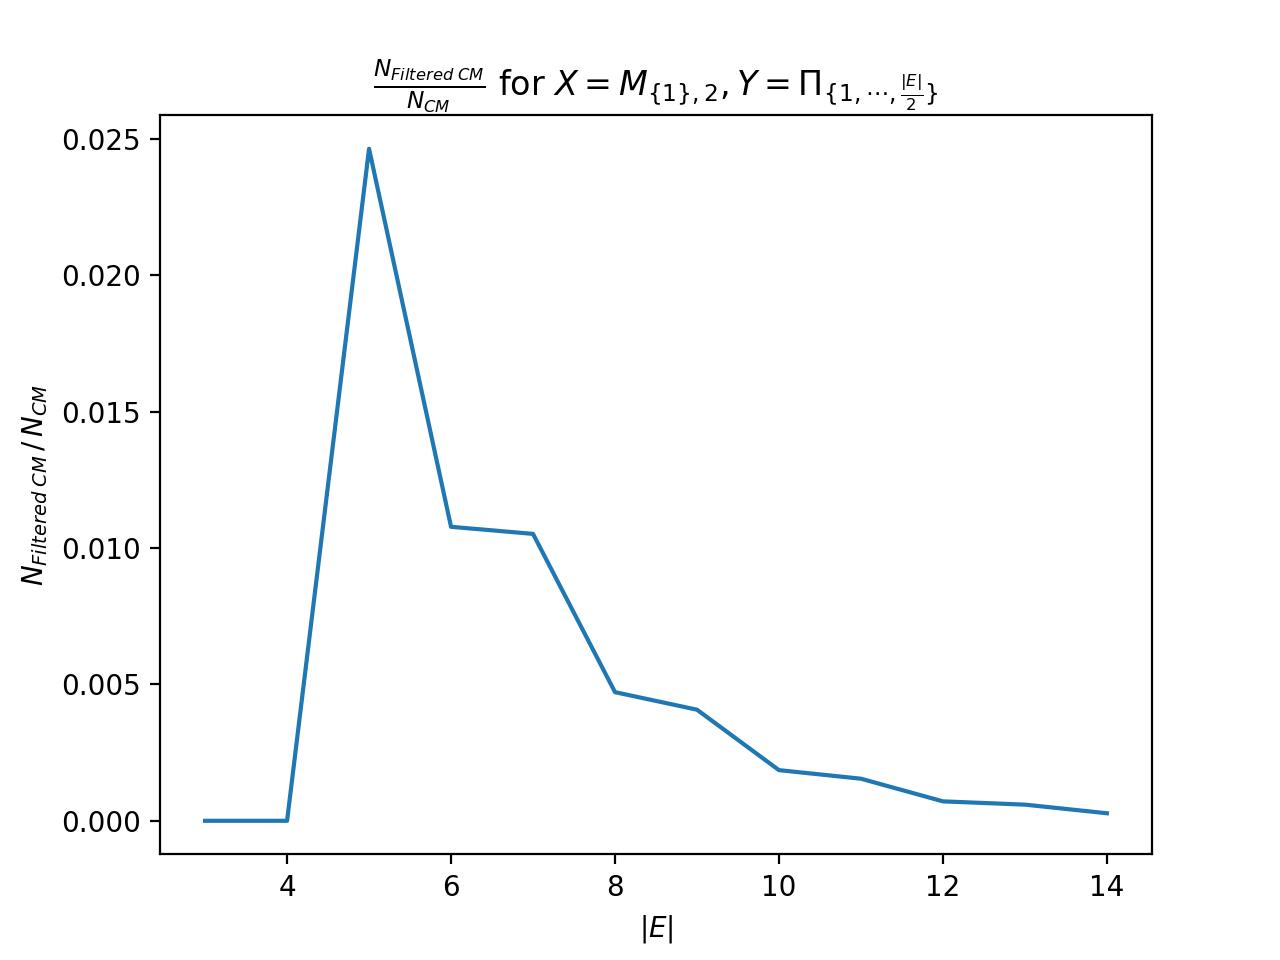
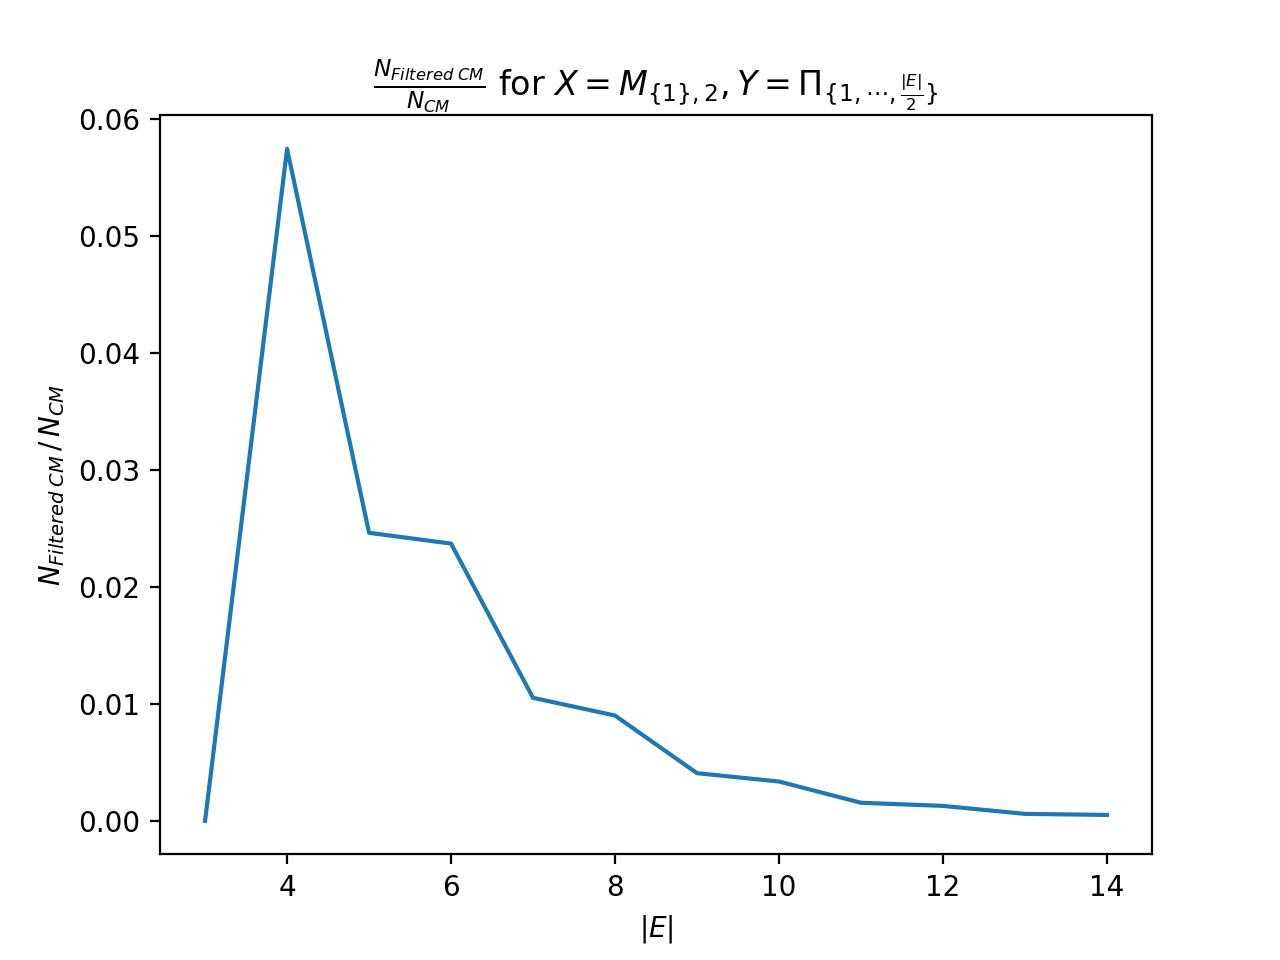
update plots

diff --git a/estrest/draft/csv2plt.py b/estrest/draft/csv2plt.py
@@ -2,25 +2,42 @@ import pandas as pd
 from matplotlib import pyplot as plt
 
 df = pd.read_csv('./data_c12_pi_all.csv')
-
 print(df)
-
 plt.plot(df.n, df.N)
 plt.title(r'$\frac{N_{Filtered\;CM}}{N_{CM}}$ for $X=C_{1,2}, Y=\Pi_{\{1, \cdots, |E|\}}$')
 plt.xlabel(r'$|E|$')
 plt.ylabel(r'$N_{Filtered\;CM}\,/\,N_{CM}$')
 # plt.show()
 plt.savefig('plt_c12_pi_all.jpg', dpi=200)
-
 plt.close()
 
+
 df = pd.read_csv('./data_c12_pi_half.csv')
-
 print(df)
-
 plt.plot(df.n, df.N)
 plt.title(r'$\frac{N_{Filtered\;CM}}{N_{CM}}$ for $X=C_{1,2}, Y=\Pi_{\{1, \cdots, \frac{|E|}{2}\}}$')
 plt.xlabel(r'$|E|$')
 plt.ylabel(r'$N_{Filtered\;CM}\,/\,N_{CM}$')
 # plt.show()
 plt.savefig('plt_c12_pi_half.jpg', dpi=200)
+plt.close()
+
+df = pd.read_csv('./data_m12_pi_all.csv')
+print(df)
+plt.plot(df.n, df.N)
+plt.title(r'$\frac{N_{Filtered\;CM}}{N_{CM}}$ for $X=M_{ \{1\},2 }, Y=\Pi_{\{1, \cdots, |E|\}}$')
+plt.xlabel(r'$|E|$')
+plt.ylabel(r'$N_{Filtered\;CM}\,/\,N_{CM}$')
+# plt.show()
+plt.savefig('plt_m12_pi_all.jpg', dpi=200)
+plt.close()
+
+df = pd.read_csv('./data_m12_pi_half.csv')
+print(df)
+plt.plot(df.n, df.N)
+plt.title(r'$\frac{N_{Filtered\;CM}}{N_{CM}}$ for $X=M_{ \{1\},2 }, Y=\Pi_{\{1, \cdots, \frac{|E|}{2} \}}$')
+plt.xlabel(r'$|E|$')
+plt.ylabel(r'$N_{Filtered\;CM}\,/\,N_{CM}$')
+# plt.show()
+plt.savefig('plt_m12_pi_half.jpg', dpi=200)
+plt.close()
